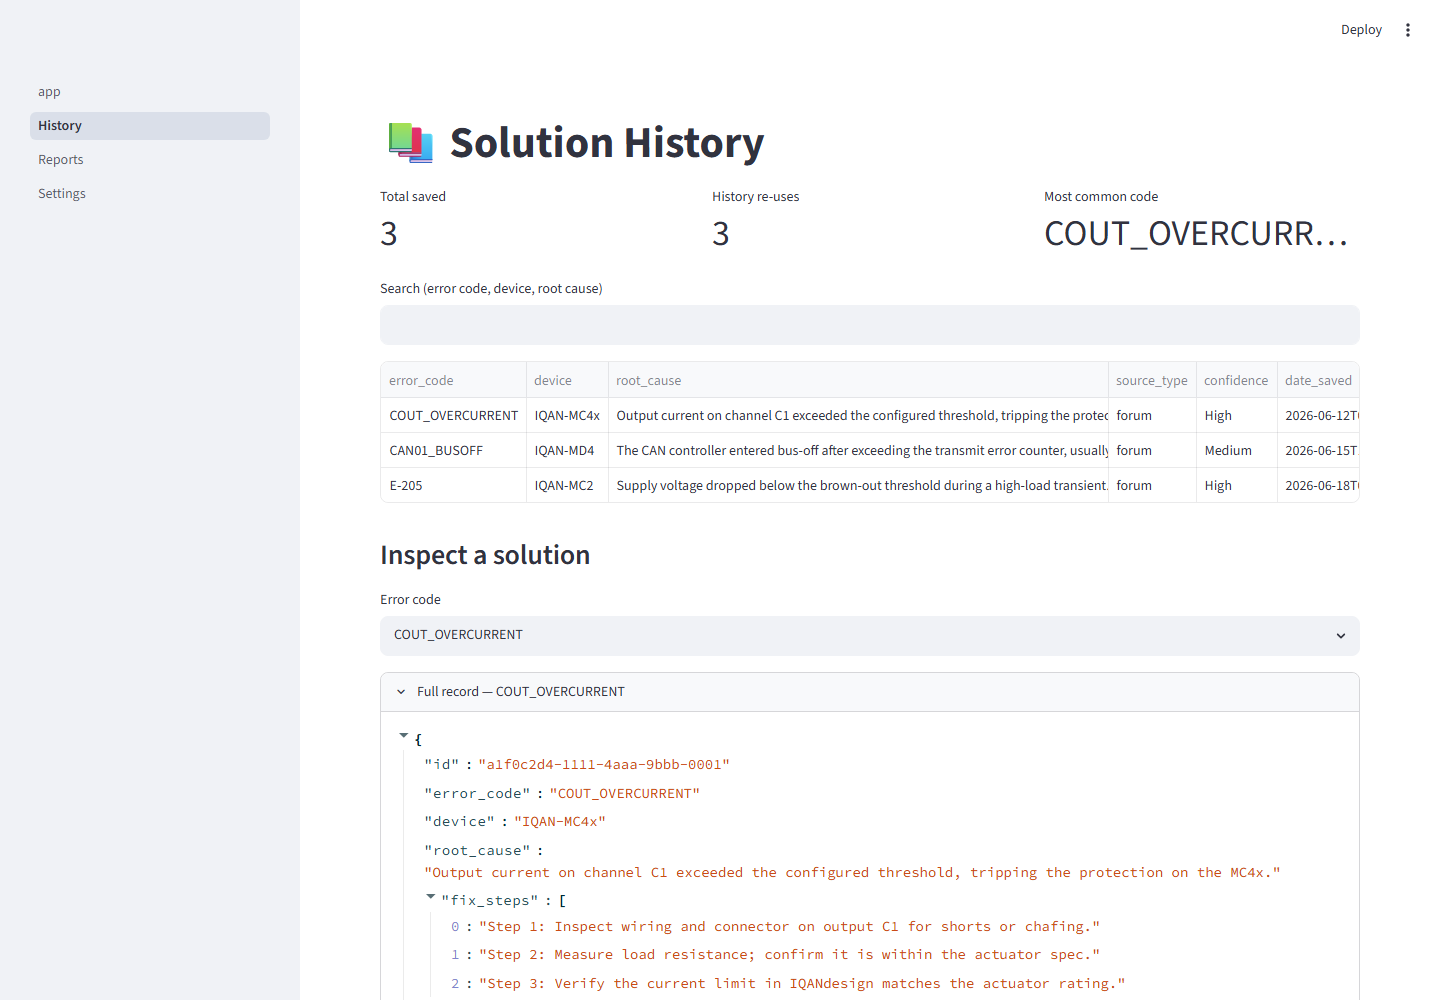
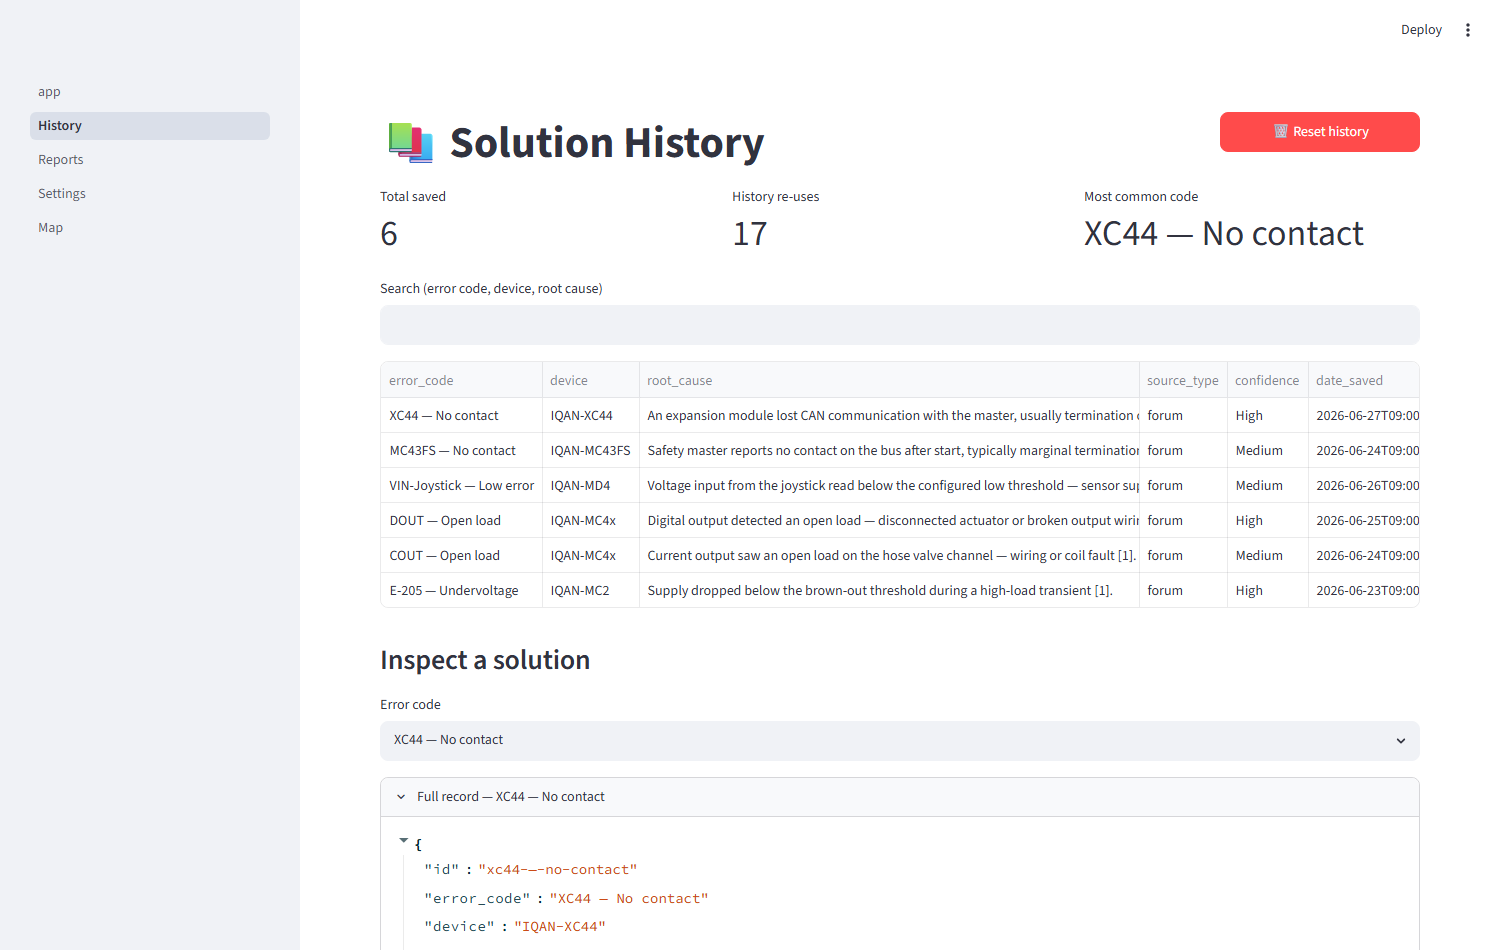
Presentation: daily-work bridge narrative + fresh screenshots
- Add a "Why this matters" slide: RootIQ as the daily bridge between PLC
  programming and software — known faults reused instantly from history,
  new faults reasoned + searched, knowledge compounds.
- Recapture all six screenshots from the live app (3-tab Analyse, Batch
  CSV parsing a real IQAN log to 9 unique faults, the knowledge map with
  shared-source links, History/Reports/Settings).
- Point the deck at the new Batch and Map screenshots.

diff --git a/PRESENTATION.md b/PRESENTATION.md
@@ -59,6 +59,22 @@ a drop-in skills loader, editable config, two LLM backends, and a security inter
 
 ---
 
+## Why this matters — a daily bridge
+
+This isn't a toy. I use RootIQ as the **bridge between PLC programming and software**
+in my day-to-day work — the controller throws faults, and this turns them into fixes.
+
+- 🧠 **Known faults → instant reuse.** The history cache turns a recurring fault into a
+  zero-effort, no-LLM, no-network answer. **This alone saves the most time** — the same
+  faults come back, and now they're solved on sight.
+- 🔍 **New faults → reason + search.** Unseen faults are searched against the forum index,
+  scraped **with community comments**, and **reasoned** into a cited fix — then *remembered*,
+  so tomorrow they're "known" too.
+- 📈 **The knowledge compounds.** Every diagnosis grows the cache and the map, so the tool
+  gets faster and smarter the more it's used.
+
+---
+
 ## The pipeline
 
 ```
@@ -92,8 +108,9 @@ The **Analyse** page has three tabs, all feeding the same pipeline & result card
 - **⌨ Type an error** — paste a code or a fault sentence, no file
 - **📦 Batch (CSV)** — a controller export; de-duped to **unique faults**, diagnosed in one click
 
-![w:560](working_dir/screenshots/01_analyse.png)
+![w:640](working_dir/screenshots/05_batch.png)
 
+> A real IQAN system log (semicolon-delimited, BOM) → **9 unique faults** parsed.
 > Known faults return instantly from history; only **new** faults call the LLM.
 
 ---
@@ -116,7 +133,7 @@ and never parrots a single page.
 
 ## Demo · the knowledge map
 
-![bg right:42% w:430](working_dir/screenshots/03_reports.png)
+![bg right:46% w:680](working_dir/screenshots/06_map.png)
 
 🗺 **Map** page — a Graphviz graph over every diagnosis:
 
